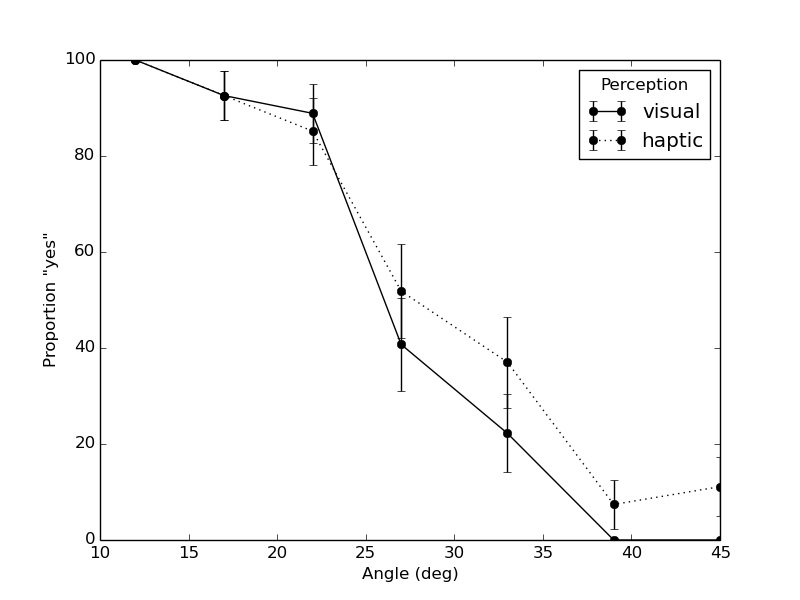
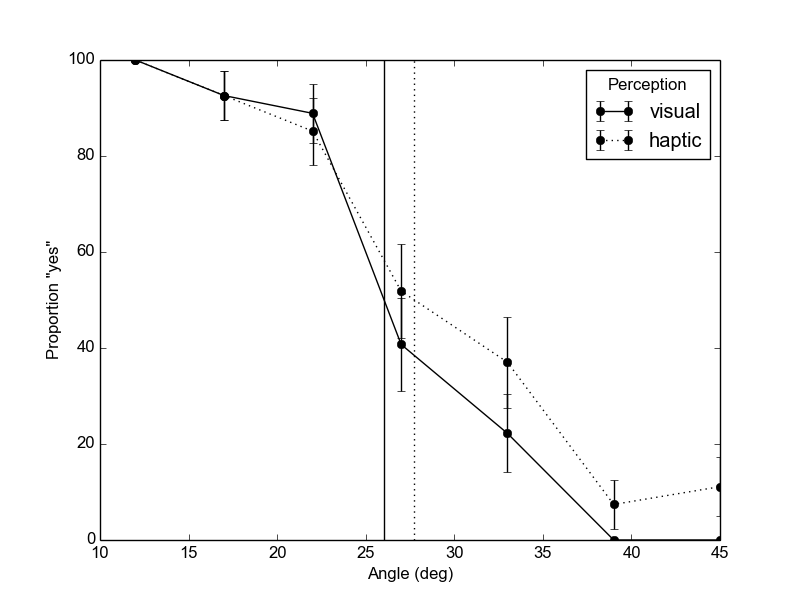
Added perceptual threshold to judgment plot

diff --git a/plots.py b/plots.py
@@ -28,6 +28,13 @@ sem.__name__ = 'sem'
 summary = data.groupby(['angle', 'perception']).aggregate([np.mean, sem])
 summary['can step'] *= 100
 
+# determine 50% angles
+boundary = {}
+for perception in ('haptic', 'visual'):
+    percents = summary['can step', 'mean'].swaplevel('angle', 'perception').xs(perception)[:-1].copy()
+    percents.sort()
+    boundary[perception] = np.interp(50, percents, percents.index)
+
 
 def make_plot(df):
     haptic = df.xs('haptic', level='perception')
@@ -41,7 +48,11 @@ def make_plot(df):
 
 
 make_plot(summary['can step'])
-plt.ylabel('Proportion "yes"')
+plt.ylabel('Percent "yes"')
+plt.hold(True)
+plt.plot([boundary['visual'], boundary['visual']], plt.ylim(), 'k-')
+plt.plot([boundary['haptic'], boundary['haptic']], plt.ylim(), 'k:')
+plt.hold(False)
 plt.savefig('can_step.png')
 
 make_plot(summary['confidence'])
